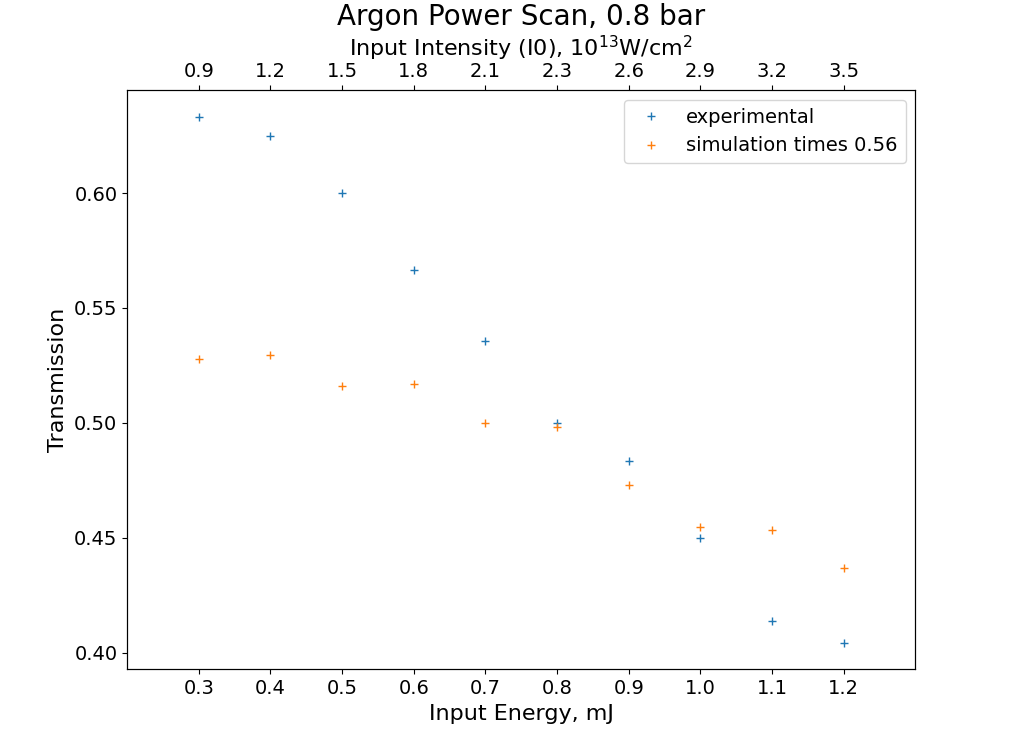
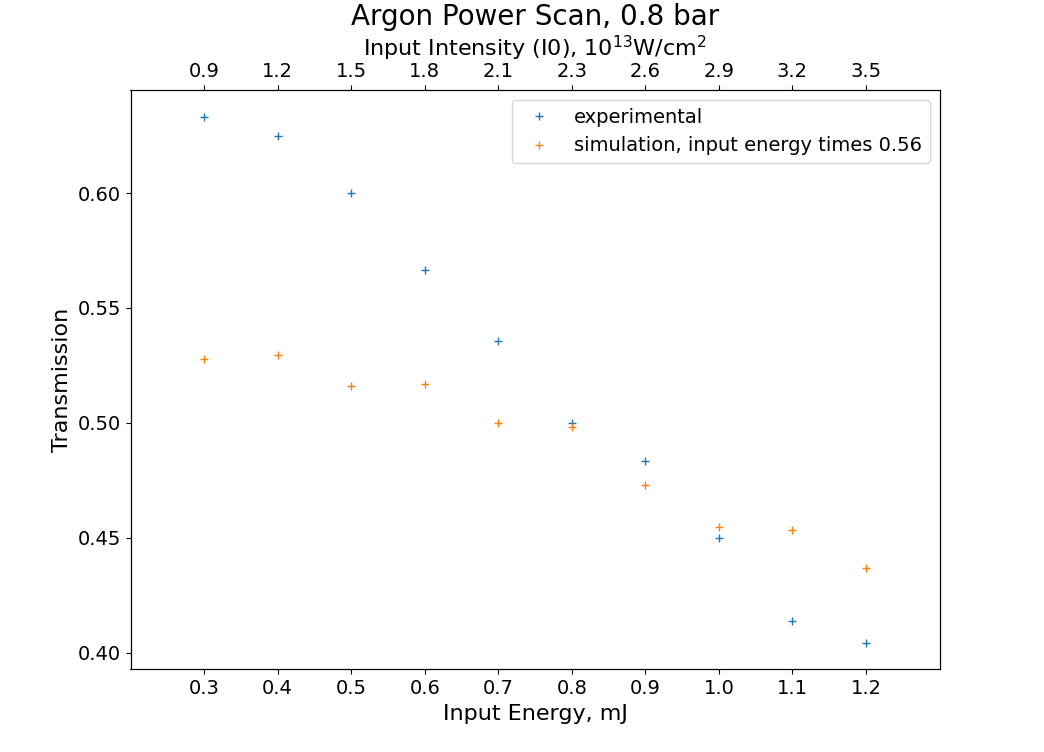
updated plots

diff --git a/HCF sim/Python/experiments/simulations/transmission_energies/input_scaling/Ne_PowerScan_transmission_inputscaled.py b/HCF sim/Python/experiments/simulations/transmission_energies/input_scaling/Ne_PowerScan_transmission_inputscaled.py
@@ -40,21 +40,37 @@ for i in data:
         columns[j].append(float(value))
 
 wavel_nm=np.array(columns[0])
+intens1_2=np.array(columns[1])
 intens1_1=np.array(columns[2])
-energy_in = 1.1e-3
+intens1_0=np.array(columns[3])
+intens0_9=np.array(columns[4])
+intens0_8=np.array(columns[5])
+intens0_7=np.array(columns[6])
+intens0_6=np.array(columns[7])
+intens0_5=np.array(columns[8])
+intens0_4=np.array(columns[9])
+intens0_3=np.array(columns[10])
 
+#list of input spectra
+intensities = [intens1_2,intens1_1,intens1_0,intens0_9,intens0_8,intens0_7,intens0_6,intens0_5,intens0_4,intens0_3]
+energies_in = np.array([1.2e-3,1.1e-3,1.0e-3,0.9e-3,0.8e-3,0.7e-3,0.6e-3,0.5e-3,0.4e-3,0.3e-3]) # energy in the pump pulse, 1.2mJ
 
 from scipy import integrate
-#energy_in_int=integrate.simps(intens1_1,wavel_nm)
+"""
+energies_in_int=[]
+for i in intensities:
+    energies_in_int.append(integrate.simps(i,wavel_nm))
 
+print(energies_in_int)
+"""
 omega=2*np.pi*c/(wavel_nm*10**-9)
 
 #################################################################################
 #get experimental output files
 lines2=[]
-columns2=[[],[],[],[],[],[],[],[]]
+columns2=[[],[],[],[],[],[],[],[],[],[],[],[]]
 
-with open ('C:\\Users\\ML\\OneDrive - Imperial College London\\MSci_Project\\data\\HCF_scans\\Argon_1.1Win_PressureScan\\PressureScan.txt', 'rt') as myfile:  # Open lorem.txt for reading
+with open ('C:\\Users\\ML\\OneDrive - Imperial College London\\MSci_Project\\data\\HCF_scans\\Neon_3bar_PowerScan\\PowerScan.txt', 'rt') as myfile:  # Open lorem.txt for reading
     for myline in myfile:
         lines2.append(myline)
 
@@ -67,26 +83,31 @@ for i in data2:
         columns2[j].append(float(value))
 
 outwavel_nm=np.array(columns2[0])
-press0_2=np.array(columns2[1])
-press0_4=np.array(columns2[2])
-press0_6=np.array(columns2[3])
-press0_8=np.array(columns2[4])
-press1_0=np.array(columns2[5])
-press1_2=np.array(columns2[6])
-press1_4=np.array(columns2[7])
+outintens1_1=np.array(columns2[2])
+outintens1_0=np.array(columns2[3])
+outintens0_9=np.array(columns2[4])
+outintens0_8=np.array(columns2[5])
+outintens0_7=np.array(columns2[6])
+outintens0_6=np.array(columns2[7])
+outintens0_5=np.array(columns2[8])
+outintens0_4=np.array(columns2[9])
+outintens0_3=np.array(columns2[10])
+outintens1_2=np.array(columns2[11])
 
-pressure_spectra = [press0_2,press0_4,press0_6,press0_8,press1_0,press1_2,press1_4]
-pressures=[0.2,0.4,0.6,0.8,1.0,1.2,1.4]
+outintensities = [outintens1_2,outintens1_1,outintens1_0,outintens0_9,outintens0_8,outintens0_7,outintens0_6,outintens0_5,outintens0_4,outintens0_3]
 """
 exp_energies_out_int=[]
-for i in pressure_spectra:
+for i in outintensities:
     exp_energies_out_int.append(integrate.simps(i,outwavel_nm))
 exp_energies_out_int=np.array(exp_energies_out_int)
+energies_in_int=np.array(energies_in_int)
 """
+
+
 #from powermeter readings
-exp_energies_out=np.array([625e-6,590e-6,540e-6,475e-6,450e-6,420e-6,400e-6])
-#transmission_exp=exp_energies_out_int/energy_in_int
-transmission_actual=exp_energies_out/energy_in
+exp_energies_out=np.array([780e-6,720e-6,650e-6,590e-6,525e-6,465e-6,390e-6,330e-6,265e-6,190e-6])
+#transmission_exp=exp_energies_out_int/energies_in_int
+transmission_actual=exp_energies_out/energies_in
 ##################################################################################
 #simulate output spectra
 import julia
@@ -97,26 +118,30 @@ Main.using("Luna")
 
 sim_energies_out_int=[]
 sim_energies_in_int=[]
-wavel = (moment(wavel_nm,intens1_1,1)/moment(wavel_nm,intens1_1,0))*10**-9
-scaling=0.62
 
-for i in range(len(pressures)):
-    ϕω=np.zeros(len(intens1_1))
-    Main.energy = energy_in*scaling
+scaling=0.695
+
+for i in range(len(energies_in)):
+    wavel = (moment(wavel_nm,intensities[i],1)/moment(wavel_nm,intensities[i],0))*10**-9
+
+    #print(omega)
+    ϕω=np.zeros(len(intens1_2))
+    Main.energy = energies_in[i]*scaling
     Main.ω = omega[::-1]
-    Main.Iω = intens1_1[::-1]
+    Main.Iω = intensities[i][::-1]
     Main.phase = ϕω
     Main.λ0 = wavel
 
     # Define experimental params
     radius = 175e-6 # HCF core radius
     flength = 1.05 # HCF length
-    gas = "Ar"
+    gas = "Ne"
+    pressure = (0.001,3.) # gas pressure in bar, corresponds to 66% of 3.5 atm
     Main.radius = radius
     Main.flength = flength
     Main.gas_str = gas
     Main.eval("gas = Symbol(gas_str)")
-    Main.pressure = (0,pressures[i])
+    Main.pressure = pressure
 
     #Pass data to Luna
     Main.eval('pulse = Pulses.DataPulse(ω, Iω, phase; energy, λ0=NaN, mode=:lowest, polarisation=:linear, propagator=nothing)')
@@ -146,29 +171,46 @@ sim_energies_in_int=np.array(sim_energies_in_int)
 
 transmission_sim=sim_energies_out_int/sim_energies_in_int
 
-delta_lambda=rms_width(wavel_nm,intens1_1)
-I0=str(round(find_I0(intens1_1,wavel_nm*10**-9,delta_lambda*10**-9,energy_in,0.5*175e-6)*10**-13,1))
+delta_lambda=rms_width(wavel_nm,intens1_2)
+I0=[]
+for i in range(len(energies_in)):
+    I0.append(str(round(find_I0(intensities[i],wavel_nm*10**-9,delta_lambda*10**-9,energies_in[i],0.5*175e-6)*10**-13,1)))
 
+"""
+fig, ax_left = plt.subplots()
+ax_right = ax_left.twinx()
+
+ax_left.plot(transmission_actual, color='black',label="experimental")
+ax_right.plot(transmission_sim, color='red',label="simulation")
+"""
+"""
+plt.plot(energies_in,transmission_actual,label="experimental",marker="+",ls="None")
+plt.plot(energies_in,transmission_sim_scaled,label="simulation, scaled down to %s"%(round(scaling,2)),marker="+",ls="None")
+
+plt.legend()
+plt.xlabel("Input Energy, J")
+plt.ylabel("Transmission")
+#plt.ylim(top=1.,bottom=0.)
+"""
 fig = plt.figure()
 ax1 = fig.add_subplot(111)
 
 #a = np.cos(2*np.pi*np.linspace(0, 1, 60.))
-ax1.plot(np.array(pressures), transmission_actual,label=r"experiment, I0="+I0+"x"+"$\mathrm{10^{13}W/cm^2}$",marker="+",ls="None")
-ax1.plot(np.array(pressures),transmission_sim,label="simulation, input energy times %s"%(round(scaling,2)),marker="+",ls="None")
-ax1.set_xlim(0.1,1.5)
-ax1.set_xticks(list(pressures))
+ax1.plot(energies_in*1000, transmission_actual,label="experimental",marker="+",ls="None")
+ax1.plot(energies_in*1000,transmission_sim,label="simulation, input energy times %s"%(round(scaling,2)),marker="+",ls="None")
+ax1.set_xlim(0.2,1.3)
+ax1.set_xticks(list(energies_in*1000))
 plt.xticks(fontsize=14)
 plt.yticks(fontsize=14)
-ax1.set_xlabel("Pressure, Bar",fontsize=16)
+ax1.set_xlabel("Input Energy, mJ",fontsize=16)
 ax1.set_ylabel("Transmission",fontsize=16)
-ax1.set_title("Argon Pressure Scan, 1.1mJ",fontsize=20)
 plt.legend(fontsize=14)
-"""
 ax2 = ax1.twiny()
-ax2.set_xlabel("Input Intensity (I0), W/cm^2")
-ax2.set_xlim(0.9,3.7)
-ax2.set_xticks(list(energy_in))
+ax2.set_xlabel("Input Intensity (I0), $\mathrm{10^{13}W/cm^2}$",fontsize=16)
+ax2.set_xlim(0.2,1.3)
+ax2.set_xticks(list(energies_in*1000))
+plt.xticks(fontsize=14)
 ax2.set_xticklabels(I0)
-"""
+ax2.set_title("Neon Power Scan, 3bar",fontsize=20)
 plt.show()
 

diff --git a/HCF sim/Python/experiments/simulations/transmission_energies/input_scaling/Ne_PressureScan_transmission_inputscaled.py b/HCF sim/Python/experiments/simulations/transmission_energies/input_scaling/Ne_PressureScan_transmission_inputscaled.py
@@ -52,9 +52,9 @@ omega=2*np.pi*c/(wavel_nm*10**-9)
 #################################################################################
 #get experimental output files
 lines2=[]
-columns2=[[],[],[],[],[],[],[],[]]
+columns2=[[],[],[],[],[],[],[],[],[],[],[],[],[],[],[]]
 
-with open ('C:\\Users\\ML\\OneDrive - Imperial College London\\MSci_Project\\data\\HCF_scans\\Argon_1.1Win_PressureScan\\PressureScan.txt', 'rt') as myfile:  # Open lorem.txt for reading
+with open ('C:\\Users\\ML\\OneDrive - Imperial College London\\MSci_Project\\data\\HCF_scans\\Neon_1.1Win_PressureScan\\pressure_scan.txt', 'rt') as myfile:  # Open lorem.txt for reading
     for myline in myfile:
         lines2.append(myline)
 
@@ -67,16 +67,23 @@ for i in data2:
         columns2[j].append(float(value))
 
 outwavel_nm=np.array(columns2[0])
-press0_2=np.array(columns2[1])
-press0_4=np.array(columns2[2])
-press0_6=np.array(columns2[3])
-press0_8=np.array(columns2[4])
-press1_0=np.array(columns2[5])
-press1_2=np.array(columns2[6])
-press1_4=np.array(columns2[7])
+press3_6=np.array(columns2[1])
+press3_4=np.array(columns2[2])
+press3_2=np.array(columns2[3])
+press3_0=np.array(columns2[4])
+press2_8=np.array(columns2[5])
+press2_6=np.array(columns2[6])
+press2_4=np.array(columns2[7])
+press2_2=np.array(columns2[8])
+press2_0=np.array(columns2[9])
+press1_8=np.array(columns2[10])
+press1_6=np.array(columns2[11])
+press1_4=np.array(columns2[12])
+press1_2=np.array(columns2[13])
+press1_0=np.array(columns2[14])
 
-pressure_spectra = [press0_2,press0_4,press0_6,press0_8,press1_0,press1_2,press1_4]
-pressures=[0.2,0.4,0.6,0.8,1.0,1.2,1.4]
+pressure_spectra = [press3_6,press3_4,press3_2,press3_0,press2_8,press2_6,press2_4,press2_2,press2_0,press1_8,press1_6,press1_4,press1_2,press1_0]
+pressures=[3.6,3.4,3.2,3.0,2.8,2.6,2.4,2.2,2.0,1.8,1.6,1.4,1.2,1.0]
 """
 exp_energies_out_int=[]
 for i in pressure_spectra:
@@ -84,7 +91,7 @@ for i in pressure_spectra:
 exp_energies_out_int=np.array(exp_energies_out_int)
 """
 #from powermeter readings
-exp_energies_out=np.array([625e-6,590e-6,540e-6,475e-6,450e-6,420e-6,400e-6])
+exp_energies_out=np.array([710e-6,710e-6,720e-6,724e-6,740e-6,740e-6,735e-6,740e-6,750e-6,740e-6,735e-6,740e-6,740e-6,740e-6])
 #transmission_exp=exp_energies_out_int/energy_in_int
 transmission_actual=exp_energies_out/energy_in
 ##################################################################################
@@ -98,7 +105,7 @@ Main.using("Luna")
 sim_energies_out_int=[]
 sim_energies_in_int=[]
 wavel = (moment(wavel_nm,intens1_1,1)/moment(wavel_nm,intens1_1,0))*10**-9
-scaling=0.62
+scaling=0.71
 
 for i in range(len(pressures)):
     ϕω=np.zeros(len(intens1_1))
@@ -111,7 +118,7 @@ for i in range(len(pressures)):
     # Define experimental params
     radius = 175e-6 # HCF core radius
     flength = 1.05 # HCF length
-    gas = "Ar"
+    gas = "Ne"
     Main.radius = radius
     Main.flength = flength
     Main.gas_str = gas
@@ -151,17 +158,16 @@ I0=str(round(find_I0(intens1_1,wavel_nm*10**-9,delta_lambda*10**-9,energy_in,0.5
 
 fig = plt.figure()
 ax1 = fig.add_subplot(111)
-
-#a = np.cos(2*np.pi*np.linspace(0, 1, 60.))
-ax1.plot(np.array(pressures), transmission_actual,label=r"experiment, I0="+I0+"x"+"$\mathrm{10^{13}W/cm^2}$",marker="+",ls="None")
-ax1.plot(np.array(pressures),transmission_sim,label="simulation, input energy times %s"%(round(scaling,2)),marker="+",ls="None")
-ax1.set_xlim(0.1,1.5)
+ax1.set_title("Neon Pressure Scan, 1.1mJ",fontsize=20)
+plt.yticks(fontsize=14)
 ax1.set_xticks(list(pressures))
 plt.xticks(fontsize=14)
-plt.yticks(fontsize=14)
+#a = np.cos(2*np.pi*np.linspace(0, 1, 60.))
+ax1.plot(np.array(pressures), transmission_actual,label="experiment, I0="+I0+"x"+"$\mathrm{10^{13} W/cm^2}$",marker="+",ls="None")
+ax1.plot(np.array(pressures),transmission_sim,label="simulation, input energy times %s"%(round(scaling,2)),marker="+",ls="None")
+ax1.set_xlim(0.9,3.7)
 ax1.set_xlabel("Pressure, Bar",fontsize=16)
 ax1.set_ylabel("Transmission",fontsize=16)
-ax1.set_title("Argon Pressure Scan, 1.1mJ",fontsize=20)
 plt.legend(fontsize=14)
 """
 ax2 = ax1.twiny()

diff --git a/HCF sim/Python/experiments/simulations/transmission_energies/input_scaling/Ar_PowerScan_transmission_inputscaled.py b/HCF sim/Python/experiments/simulations/transmission_energies/input_scaling/Ar_PowerScan_transmission_inputscaled.py
@@ -198,7 +198,7 @@ ax1 = fig.add_subplot(111)
 
 #a = np.cos(2*np.pi*np.linspace(0, 1, 60.))
 ax1.plot(energies_in*1000, transmission_actual,label="experimental",marker="+",ls="None")
-ax1.plot(energies_in*1000,transmission_sim,label="simulation times %s"%(round(scaling,2)),marker="+",ls="None")
+ax1.plot(energies_in*1000,transmission_sim,label="simulation, input energy times %s"%(round(scaling,2)),marker="+",ls="None")
 plt.legend(fontsize=14)
 ax1.set_xticks(list(energies_in*1000))
 plt.xticks(fontsize=14)
